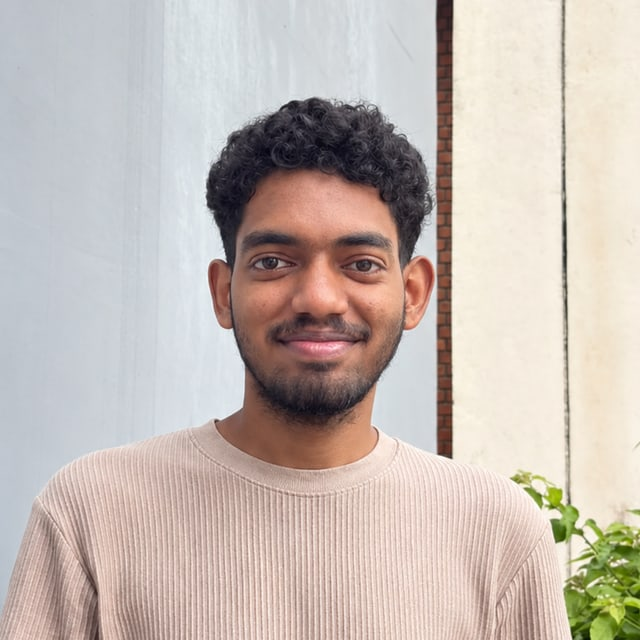
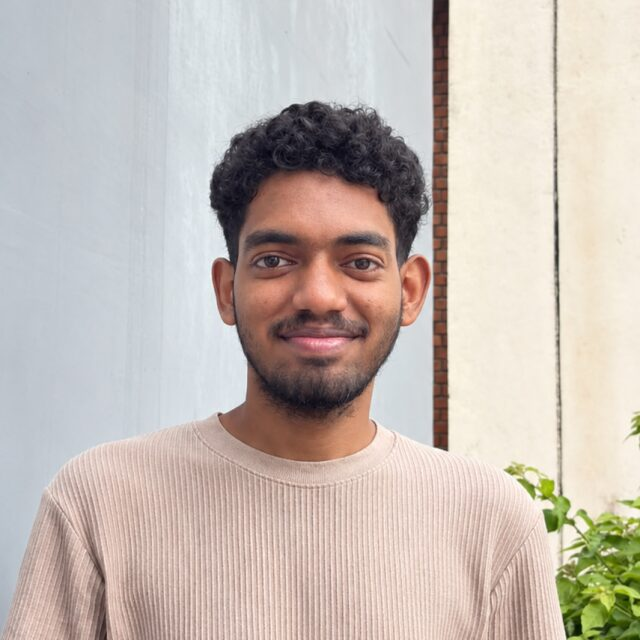
Add 19 members to the organizing team as a slow carousel

Changed region(s): [[0.0, 0.0, 1.0, 1.0], [0.9688, 0.625, 1.0, 0.6875]]

diff --git a/src/app/team/page.js b/src/app/team/page.js
@@ -36,6 +36,25 @@ const organizingTeam = [
   { name: "Sriram", image: "/assets/team/sriram.jpg" },
   { name: "Varshini", image: "/assets/team/varshini.jpg" },
   { name: "Sainatha", image: "/assets/team/sainath.jpg" },
+  { name: "Ashrith", image: "/assets/team/ashrith.jpg" },
+  { name: "Nikil", image: "/assets/team/nikil.jpg" },
+  { name: "Krithika", image: "/assets/team/krithika.jpg" },
+  { name: "K Shashank Reddy", image: "/assets/team/shashank-reddy.jpg" },
+  { name: "Nithish", image: "/assets/team/nithish.jpg" },
+  { name: "Saimanohar", image: "/assets/team/saimanohar.jpg" },
+  { name: "Mohammed Eesa S M", image: "/assets/team/mohammed-eesa.jpg" },
+  { name: "Rakesh Tubati", image: "/assets/team/rakesh-tubati.jpg" },
+  { name: "Chanakya Swaraj", image: "/assets/team/chanakya-swaraj.jpg" },
+  { name: "Akhil IVS", image: "/assets/team/akhil-ivs.jpg" },
+  { name: "Rupkatha Suter", image: "/assets/team/rupkatha-suter.jpg" },
+  { name: "Chiranthan S", image: "/assets/team/chiranthan-s.jpg" },
+  { name: "Sai Akshay", image: "/assets/team/sai-akshay.jpg" },
+  { name: "Sai Shreyansh", image: "/assets/team/sai-shreyansh.jpg" },
+  { name: "Sankeerth Koritala", image: "/assets/team/sankeerth-koritala.jpg" },
+  { name: "Bhargav Sai", image: "/assets/team/bhargav-sai.jpg" },
+  { name: "Priyank Jain", image: "/assets/team/priyank-jain.jpg" },
+  { name: "Someshwar Raj", image: "/assets/team/someshwar-raj.jpg" },
+  { name: "Yaswitha Nandu", image: "/assets/team/yaswitha-nandu.jpg" },
 ];
 
 // One row per array, in the organizers' order.
@@ -126,9 +145,17 @@ export default function Team() {
 
         <section aria-labelledby="team-organizing-team">
           <SectionHeading id="team-organizing-team">Organizing Team</SectionHeading>
-          <ul className="flex flex-wrap justify-center gap-x-6 gap-y-12 sm:gap-x-12 sm:gap-y-14">
-            {organizingTeam.map((member) => <MemberCard key={member.name} member={member} />)}
-          </ul>
+          {/* Slow marquee: the list is rendered twice so the loop is seamless;
+              the copy is hidden from assistive tech. Pauses on hover/focus. */}
+          <div className="team-carousel -mx-4 overflow-hidden py-2 [mask-image:linear-gradient(to_right,transparent,black_6%,black_94%,transparent)] sm:-mx-6 lg:-mx-8">
+            <div className="team-carousel-track flex w-max">
+              {[0, 1].map((copy) => (
+                <ul key={copy} aria-hidden={copy === 1 || undefined} className="flex shrink-0 gap-x-6 pr-6 sm:gap-x-12 sm:pr-12">
+                  {organizingTeam.map((member) => <MemberCard key={member.name} member={member} />)}
+                </ul>
+              ))}
+            </div>
+          </div>
         </section>
 
         <section aria-labelledby="team-website-team">

diff --git a/src/app/globals.css b/src/app/globals.css
@@ -160,6 +160,15 @@ p {
   100% { transform: translateX(-50%); }
 }
 
+/* Team carousel: track holds the list twice; pauses on hover/focus. */
+.team-carousel-track { animation: marquee 90s linear infinite; }
+.team-carousel:hover .team-carousel-track,
+.team-carousel:focus-within .team-carousel-track { animation-play-state: paused; }
+@media (prefers-reduced-motion: reduce) {
+  .team-carousel { overflow-x: auto; }
+  .team-carousel-track { animation: none; }
+}
+
 /* Animation: fadeUp */
 @keyframes fadeUp {
   from { opacity: 0; transform: translateY(24px); }
